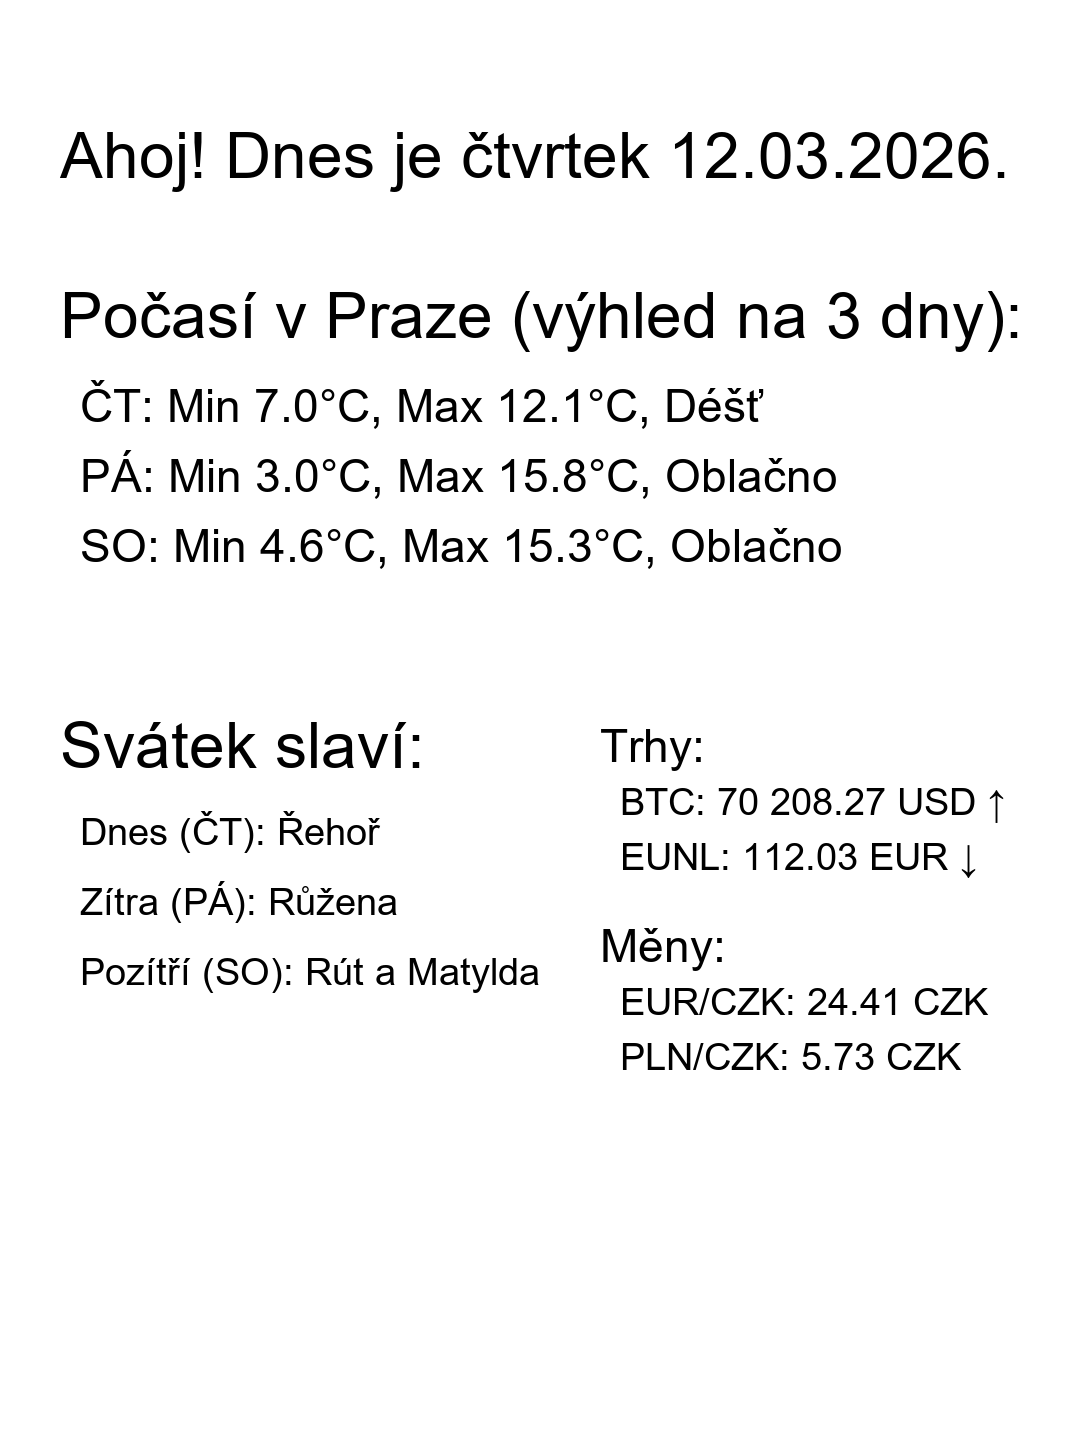
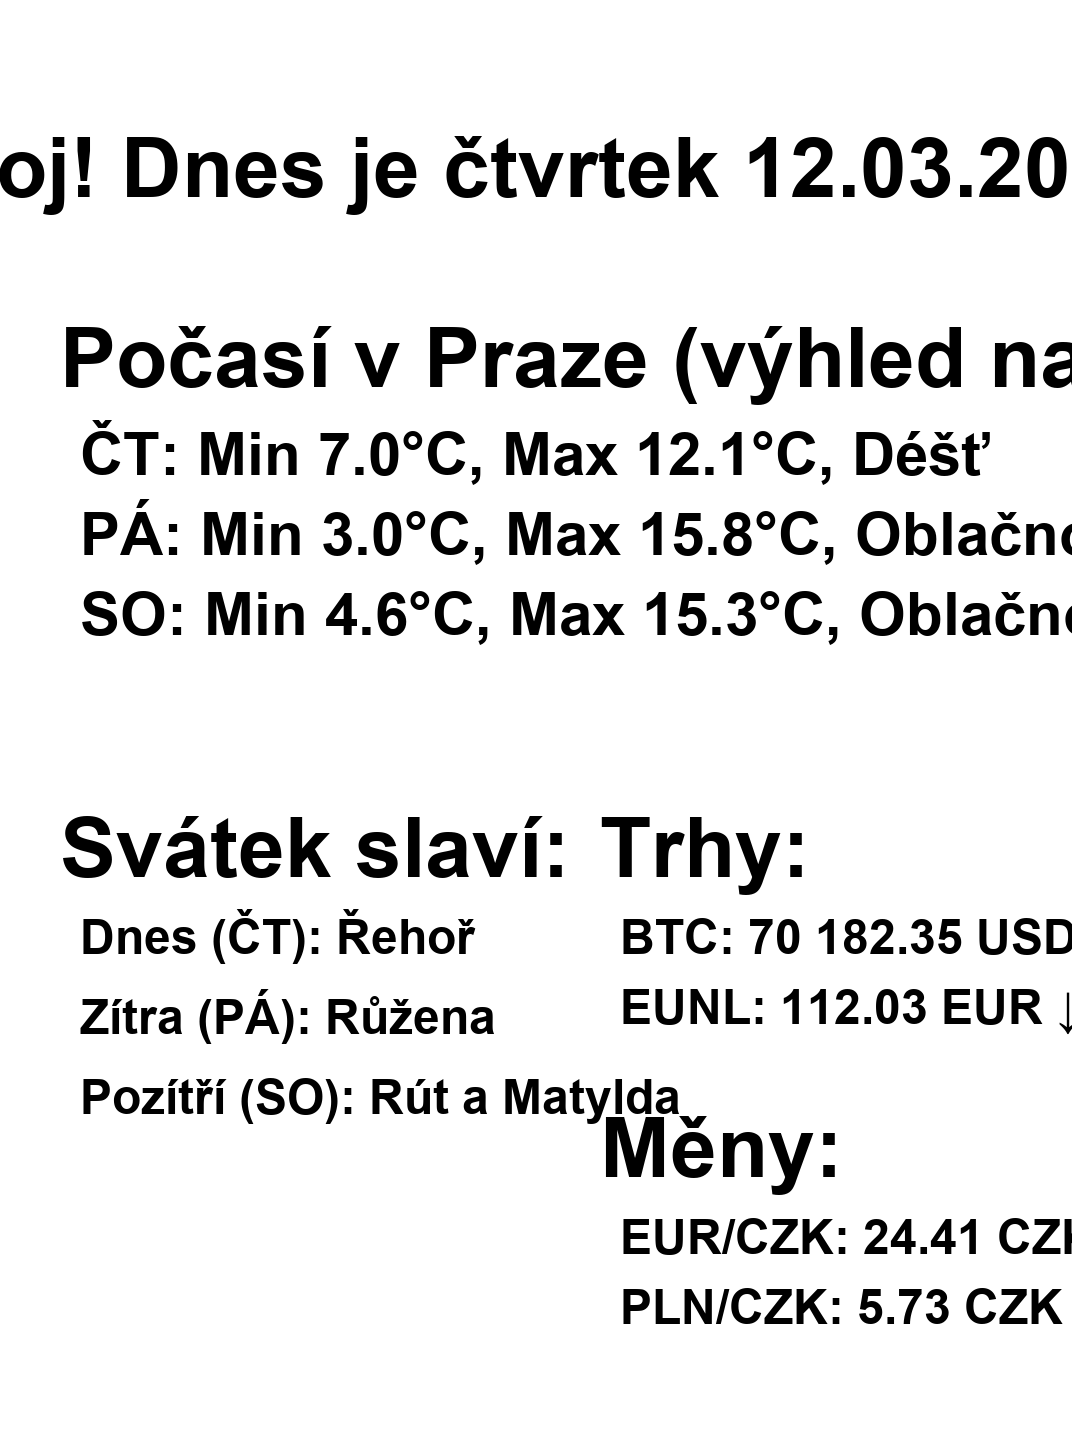
feat: Generate a daily teletext first page with weather, namesdays, and financial data, automated by a new GitHub Actions workflow.

diff --git a/src/first_page.py b/src/first_page.py
@@ -138,16 +138,29 @@ class FirstPageGenerator:
         img = Image.new("L", (self.width, self.height), 255)
         draw = ImageDraw.Draw(img)
 
-        try:
-            font_large = ImageFont.truetype("arial.ttf", 64)
-            font_medium = ImageFont.truetype("arial.ttf", 46)
-            font_small = ImageFont.truetype("arial.ttf", 38)
-            font_tiny = ImageFont.truetype("arial.ttf", 32)
-        except OSError:
-            font_large = ImageFont.load_default()
-            font_medium = ImageFont.load_default()
-            font_small = ImageFont.load_default()
-            font_tiny = ImageFont.load_default()
+        # Try finding a bold font for better Kindle readability
+        font_names = ["arialbd.ttf", "arial.ttf", "DejaVuSans-Bold.ttf", "DejaVuSans.ttf", "FreeSansBold.ttf", "LiberationSans-Bold.ttf"]
+        
+        font_large = font_medium = font_small = font_tiny = None
+        
+        for font_name in font_names:
+            try:
+                font_large = ImageFont.truetype(font_name, 84)
+                font_medium = ImageFont.truetype(font_name, 60)
+                font_small = ImageFont.truetype(font_name, 48)
+                font_tiny = ImageFont.truetype(font_name, 40)
+                break
+            except OSError:
+                continue
+
+        if font_large is None:
+            try:
+                font_large = ImageFont.load_default(size=84)
+                font_medium = ImageFont.load_default(size=60)
+                font_small = ImageFont.load_default(size=48)
+                font_tiny = ImageFont.load_default(size=40)
+            except TypeError:
+                font_large = font_medium = font_small = font_tiny = ImageFont.load_default()
 
         today = datetime.date.today()
         weather = self._fetch_weather()
@@ -168,11 +181,11 @@ class FirstPageGenerator:
 
         x = (self.width - text_width) // 2
         draw.text((x, y_offset), header_text, font=font_large, fill=0)
-        y_offset += 160
+        y_offset += 190
 
         # Weather Section
         draw.text((60, y_offset), "Počasí v Praze (výhled na 3 dny):", font=font_large, fill=0)
-        y_offset += 100
+        y_offset += 110
         if weather and 'time' in weather:
             for i in range(3):
                 date_str = weather['time'][i]
@@ -188,19 +201,19 @@ class FirstPageGenerator:
                 
                 text = f"{day_abbr}: Min {t_min}°C, Max {t_max}°C, {desc}"
                 draw.text((80, y_offset), text, font=font_medium, fill=0)
-                y_offset += 70
+                y_offset += 80
         else:
             draw.text((80, y_offset), "Nepodařilo se načíst data o počasí.", font=font_medium, fill=0)
-            y_offset += 70
+            y_offset += 80
 
-        y_offset += 120
+        y_offset += 140
 
         # Namesdays and Markets Section
         draw.text((60, y_offset), "Svátek slaví:", font=font_large, fill=0)
-        draw.text((600, y_offset + 10), "Trhy:", font=font_medium, fill=0) # Adjust baseline slightly for font_medium
+        draw.text((600, y_offset), "Trhy:", font=font_large, fill=0) # Same size as Svátek slaví
         
-        y_left = y_offset + 100
-        y_right = y_offset + 70 # Adjusted to bring items a bit closer to header
+        y_left = y_offset + 110
+        y_right = y_offset + 110 # Adjusted to bring items a bit closer to header
 
         market_texts = []
         currency_texts = []
@@ -235,20 +248,20 @@ class FirstPageGenerator:
             label = "Dnes" if i == 0 else "Zítra" if i == 1 else "Pozítří"
             text_nd = f"{label} ({day_abbr}): {namesdays[i]}"
             draw.text((80, y_left), text_nd, font=font_small, fill=0)
-            y_left += 70
+            y_left += 80
 
         # Draw right column (Markets)
         for text in market_texts:
             draw.text((620, y_right), text, font=font_small, fill=0)
-            y_right += 55
+            y_right += 70
             
         # Draw right column (Currencies)
-        y_right += 30 # Added more space between blocks
-        draw.text((600, y_right), "Měny:", font=font_medium, fill=0) # Smaller header
-        y_right += 60
+        y_right += 50 # Added more space between blocks
+        draw.text((600, y_right), "Měny:", font=font_large, fill=0)
+        y_right += 110
         for text in currency_texts:
             draw.text((620, y_right), text, font=font_small, fill=0)
-            y_right += 55
+            y_right += 70
 
         return img
 
